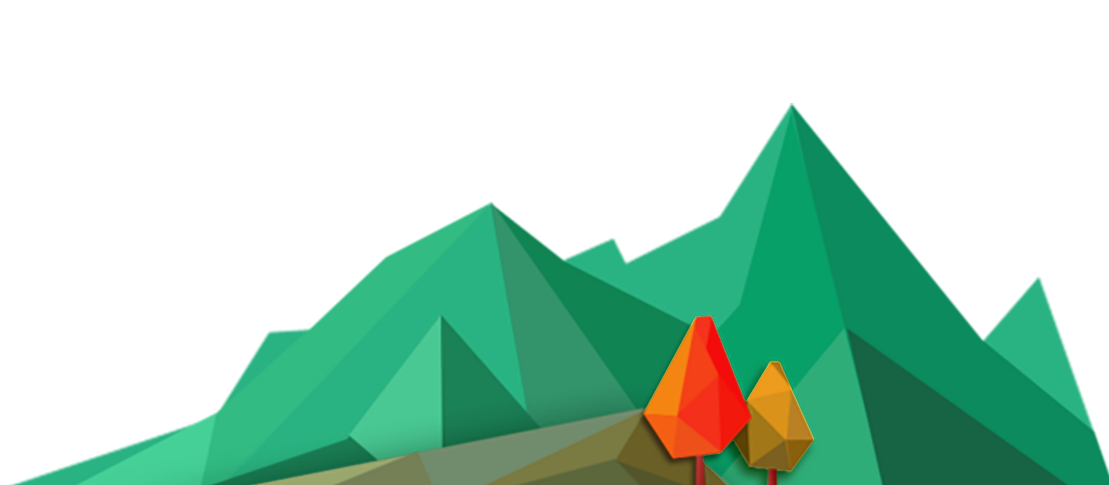
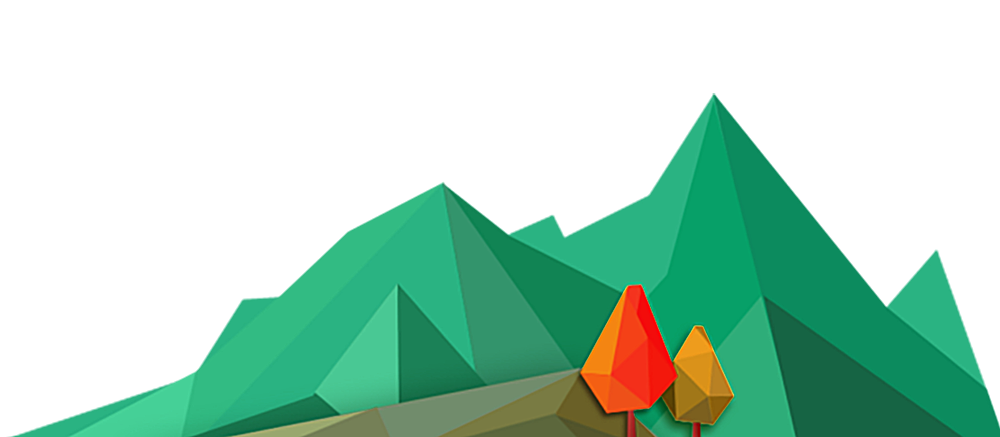
Title image change
Title image quality increased.
Title image position and size adjusted.

diff --git a/css/style.css b/css/style.css
@@ -69,7 +69,8 @@ h3
 
 .mountain
     {
-        max-width: 70%;
+        margin-top: 5%;
+        max-width: 50%;
         height: auto;
     }
 
